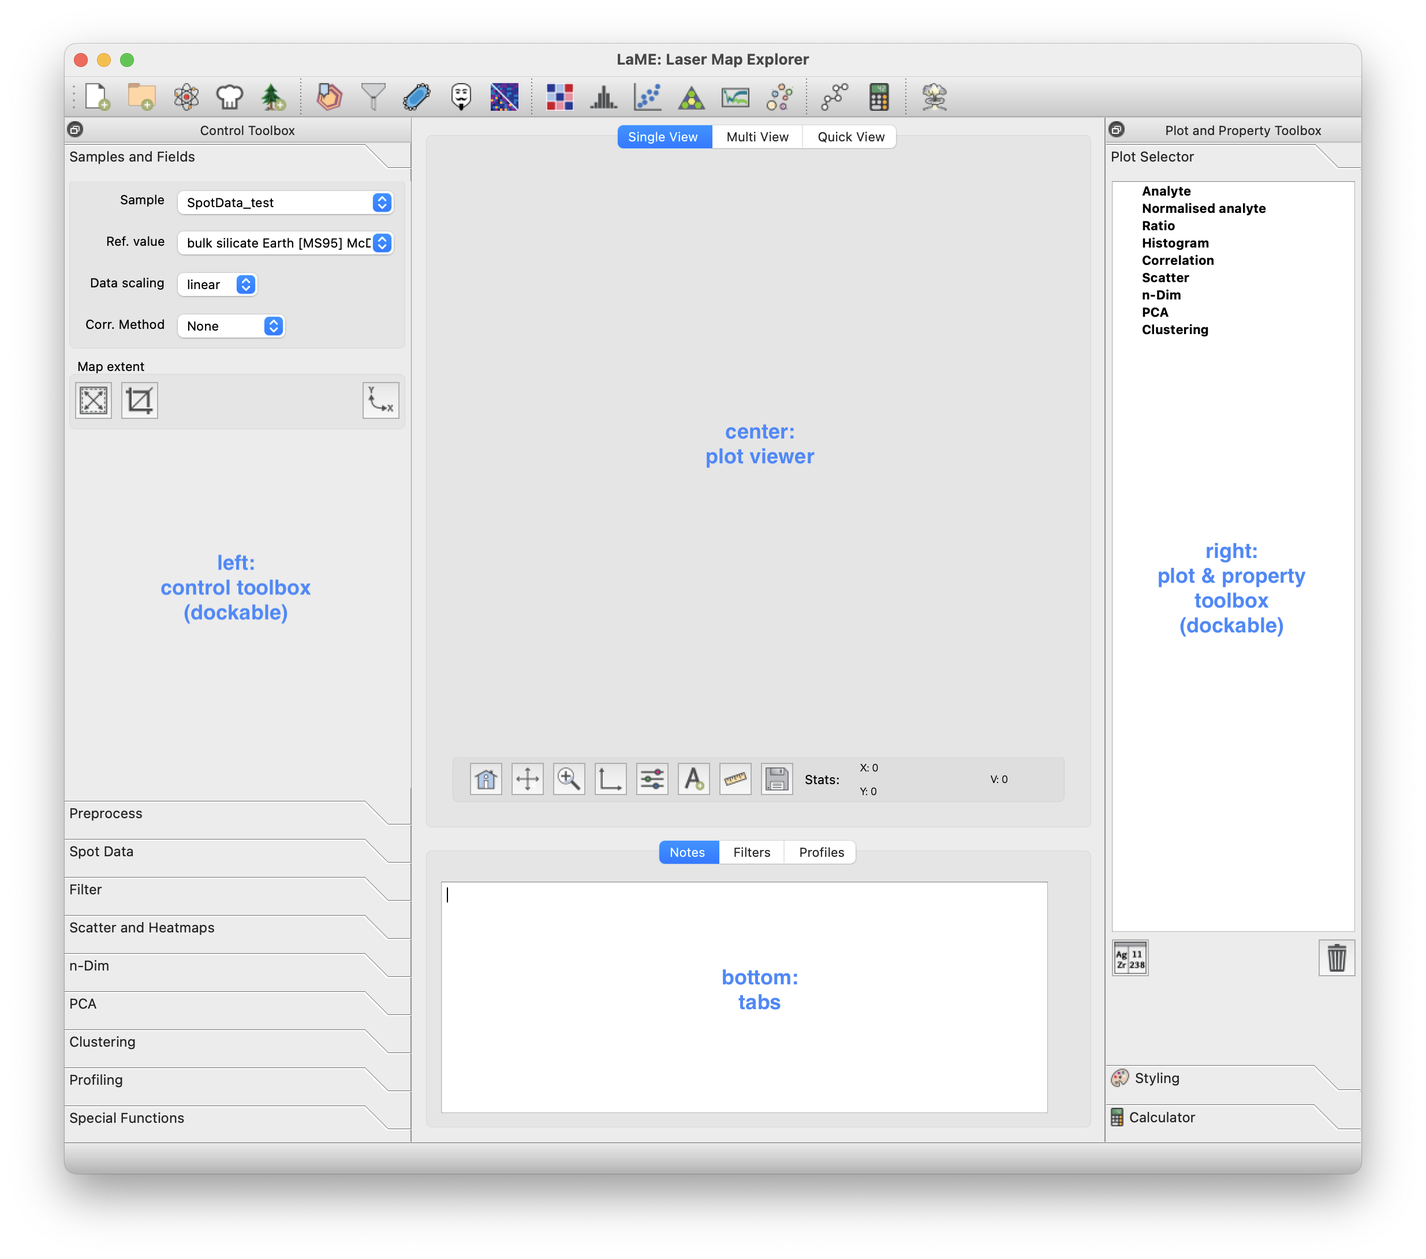
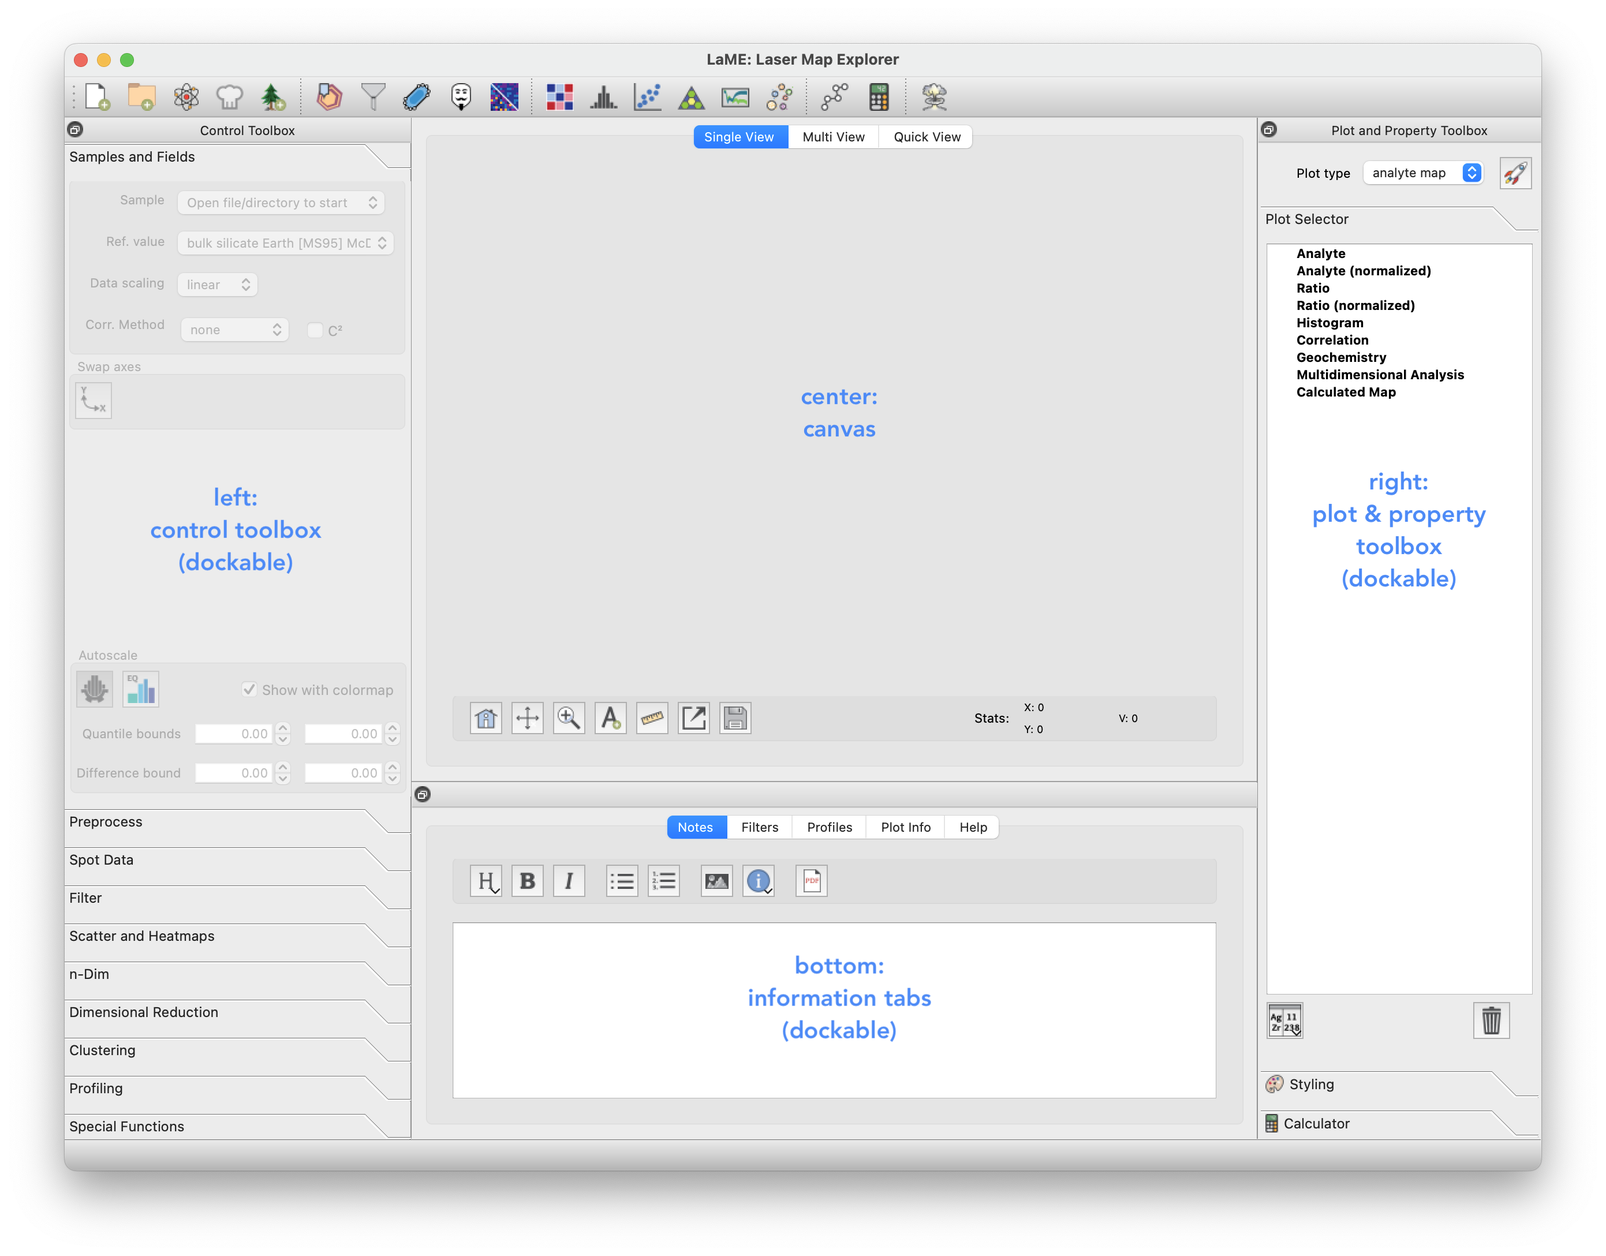
fixed issues with styles and polygons and profiles
Updated MainWindow.set_style_widgets to fix issues updating when changing toolBox pages.  Added X and Y axes to MainWindow.axis_dict and updated associated wiget functions.  Fixed bugs related to bottom_tab and canvas_tab in classes outside scope of MainWindow.

diff --git a/main.py b/main.py
@@ -224,6 +224,8 @@ class MainWindow(QtWidgets.QMainWindow, Ui_MainWindow):
             Layout for Quick View tab of ``canvasWindow``
         left_tab : dict
             Holds the indices for pages in ``toolBox``
+        map_plot_types : list
+            A list of plots that result in a map, i.e., ['analyte map', 'ternary map', 'PCA Score', 'Cluster', 'Cluster Score'].  This list is generally used as a check when setting certain styles or other plotting behavior related to maps.
         marker_dict : dict
             Dictionary of marker names used to translate ``comboBoxMarker`` to a matplotlib maker symbol, though not all matplotlib markers
             are used.
@@ -482,7 +484,7 @@ class MainWindow(QtWidgets.QMainWindow, Ui_MainWindow):
                 case 'filters':
                     self.bottom_tab.update({'filters': tid})
                 case 'profiles':
-                    self.bottom_tab.update({'profiles': tid})
+                    self.bottom_tab.update({'profile': tid})
                 case 'plot info':
                     self.bottom_tab.update({'plotinfo': tid})
                 case 'help':
@@ -504,6 +506,7 @@ class MainWindow(QtWidgets.QMainWindow, Ui_MainWindow):
         self.markerdict = {'circle':'o', 'square':'s', 'diamond':'d', 'triangle (up)':'^', 'triangle (down)':'v', 'hexagon':'h', 'pentagon':'p'}
         self.comboBoxMarker.clear()
         self.comboBoxMarker.addItems(self.markerdict.keys())
+        self.map_plot_types = ['analyte map', 'ternary map', 'PCA Score', 'Cluster', 'Cluster Score']
 
         self.plot_types = {self.left_tab['sample']: [0, 'analyte map', 'correlation'],
             self.left_tab['spot']: [0, 'analyte map', 'gradient map'],
@@ -1576,13 +1579,18 @@ class MainWindow(QtWidgets.QMainWindow, Ui_MainWindow):
         if self.sample_id == '':
             return
 
+        tab_id = self.toolBox.currentIndex()
+
         self.comboBoxPlotType.blockSignals(True)
         self.comboBoxPlotType.clear()
-        self.comboBoxPlotType.addItems(self.plot_types[self.toolBox.currentIndex()][1:])
-        self.comboBoxPlotType.setCurrentIndex(self.plot_types[self.toolBox.currentIndex()][0])
+        self.comboBoxPlotType.addItems(self.plot_types[tab_id][1:])
+        self.comboBoxPlotType.setCurrentIndex(self.plot_types[tab_id][0])
         self.comboBoxPlotType.blockSignals(False)
-        self.set_style_widgets()
 
+        plot_type = self.comboBoxPlotType.currentText()
+        self.set_style_widgets(plot_type=plot_type, style=self.styles[plot_type])
+
+        # If canvasWindow is set to SingleView, update the plot
         if self.canvasWindow.currentIndex() == self.canvas_tab['sv']:
             self.update_SV()
 
@@ -3810,13 +3818,13 @@ class MainWindow(QtWidgets.QMainWindow, Ui_MainWindow):
                 self.comboBoxLineWidth.setEnabled(False)
                 self.lineEditLengthMultiplier.setEnabled(False)
 
-
                 # color properties
                 self.comboBoxColorByField.setEnabled(True)
                 self.comboBoxColorField.setEnabled(True)
                 self.comboBoxFieldColormap.setEnabled(True)
                 self.lineEditColorLB.setEnabled(True)
                 self.lineEditColorUB.setEnabled(True)
+                self.comboBoxColorScale.setEnabled(True)
                 self.comboBoxCbarDirection.setEnabled(True)
                 self.lineEditCbarLabel.setEnabled(True)
 
@@ -4355,13 +4363,10 @@ class MainWindow(QtWidgets.QMainWindow, Ui_MainWindow):
         tab_id = self.toolBox.currentIndex()
 
         if plot_type is None:
+            plot_type = self.plot_types[tab_id][self.plot_types[tab_id][0]+1]
             self.comboBoxPlotType.blockSignals(True)
             self.comboBoxPlotType.clear()
             self.comboBoxPlotType.addItems(self.plot_types[tab_id][1:])
-            self.comboBoxPlotType.blockSignals(False)
-
-            plot_type = self.plot_types[tab_id][self.plot_types[tab_id][0]+1]
-            self.comboBoxPlotType.blockSignals(True)
             self.comboBoxPlotType.setCurrentText(plot_type)
             self.comboBoxPlotType.blockSignals(False)
         elif plot_type == '':
@@ -4371,12 +4376,45 @@ class MainWindow(QtWidgets.QMainWindow, Ui_MainWindow):
             style = self.styles[plot_type]
 
         # axes properties
-        self.lineEditXLB.setText(self.dynamic_format(style['Axes']['XLim'][0],order=3,dir=0))
-        self.lineEditXUB.setText(self.dynamic_format(style['Axes']['XLim'][1],order=3,dir=1))
+        # for map plots, check to see that 'X' and 'Y' are initialized
+        if plot_type.lower() in self.map_plot_types:
+            if ('X' not in list(self.axis_dict.keys())) or ('Y' not in list(self.axis_dict.keys())):
+                # initialize 'X' and 'Y' axes
+                # all plot types use the same map dimensions so just use Analyte for the field_type
+                self.initialize_axis_values('Analyte','X')
+                self.initialize_axis_values('Analyte','Y')
+            xmin,xmax,xscale,xlabel = self.get_axis_values('Analyte','X')
+            ymin,ymax,yscale,ylabel = self.get_axis_values('Analyte','Y')
+
+            # set style dictionary values for X and Y
+            style['Axes']['XLim'] = [xmin, xmax]
+            style['Axes']['XScale'] = xscale
+            style['Axes']['XLabel'] = 'X'
+            style['Axes']['YLim'] = [ymin, ymax]
+            style['Axes']['YScale'] = yscale
+            style['Axes']['YLabel'] = 'Y'
+            style['Axes']['AspectRatio'] = self.aspect_ratio
+
+            # do not round axes limits for maps
+            self.lineEditXLB.setText(str(style['Axes']['XLim'][0]))
+            self.lineEditXUB.setText(str(style['Axes']['XLim'][1]))
+
+            self.lineEditYLB.setText(str(style['Axes']['YLim'][0]))
+            self.lineEditYUB.setText(str(style['Axes']['YLim'][1]))
+        else:
+            # round axes limits for everything that isn't a map
+            self.lineEditXLB.setText(self.dynamic_format(style['Axes']['XLim'][0],order=3,dir=0))
+            self.lineEditXUB.setText(self.dynamic_format(style['Axes']['XLim'][1],order=3,dir=1))
+
+            self.lineEditYLB.setText(self.dynamic_format(style['Axes']['YLim'][0],order=3,dir=0))
+            self.lineEditYUB.setText(self.dynamic_format(style['Axes']['YLim'][1],order=3,dir=1))
+
+        self.comboBoxXScale.setCurrentText(style['Axes']['XScale'])
         self.lineEditXLabel.setText(style['Axes']['XLabel'])
-        self.lineEditYLB.setText(self.dynamic_format(style['Axes']['YLim'][0],order=3,dir=0))
-        self.lineEditYUB.setText(self.dynamic_format(style['Axes']['YLim'][1],order=3,dir=1))
+
+        self.comboBoxYScale.setCurrentText(style['Axes']['YScale'])
         self.lineEditYLabel.setText(style['Axes']['YLabel'])
+
         self.lineEditZLabel.setText(style['Axes']['ZLabel'])
         self.lineEditAspectRatio.setText(str(style['Axes']['AspectRatio']))
 
@@ -4407,9 +4445,19 @@ class MainWindow(QtWidgets.QMainWindow, Ui_MainWindow):
 
         # color properties
         self.toolButtonMarkerColor.setStyleSheet("background-color: %s;" % style['Colors']['Color'])
+        self.update_field_type_combobox(self.comboBoxColorByField,addNone=True,plot_type=plot_type)
         self.comboBoxColorByField.setCurrentText(style['Colors']['ColorByField'])
-        self.update_field_combobox(self.comboBoxColorByField, self.comboBoxColorField)
-        self.comboBoxColorField.setCurrentText(style['Colors']['Field'])
+
+        if style['Colors']['ColorByField'] == '':
+            self.comboBoxColorField.clear()
+        else:
+            self.update_field_combobox(self.comboBoxColorByField, self.comboBoxColorField)
+
+        if style['Colors']['Field'] in self.comboBoxColorField.allItems():
+            self.comboBoxColorField.setCurrentText(style['Colors']['Field'])
+        else:
+            style['Colors']['Field'] = self.comboBoxColorField.currentText()
+
         self.comboBoxFieldColormap.setCurrentText(style['Colors']['Colormap'])
         self.checkBoxReverseColormap.blockSignals(True)
         self.checkBoxReverseColormap.setChecked(style['Colors']['Reverse'])
@@ -4419,6 +4467,21 @@ class MainWindow(QtWidgets.QMainWindow, Ui_MainWindow):
             style['Colors']['CLabel'] = self.axis_dict[style['Colors']['Field']]['label']
         self.lineEditColorLB.setText(self.dynamic_format(style['Colors']['CLim'][0],order=3,dir=0))
         self.lineEditColorUB.setText(self.dynamic_format(style['Colors']['CLim'][1],order=3,dir=1))
+        if style['Colors']['ColorByField'] == 'Cluster':
+            # set ColorField to active cluster method
+            self.comboBoxColorField.setCurrentText(self.cluster_dict['active method'])
+
+            # set color scale to discrete
+            self.comboBoxColorScale.clear()
+            self.comboBoxColorScale.addItem('discrete')
+            self.comboBoxColorScale.setCurrentText('discrete')
+
+            self.styles[plot_type]['Colors']['CScale'] = 'discrete'
+        else:
+            # set color scale options to linear/log
+            self.comboBoxColorScale.clear()
+            self.comboBoxColorScale.addItems(['linear','log'])
+            self.comboBoxColorScale.setCurrentText(self.styles[plot_type]['Colors']['CScale'])
         self.comboBoxColorScale.setCurrentText(style['Colors']['CScale'])
         self.comboBoxCbarDirection.setCurrentText(style['Colors']['Direction'])
         self.lineEditCbarLabel.setText(style['Colors']['CLabel'])
@@ -4481,8 +4544,8 @@ class MainWindow(QtWidgets.QMainWindow, Ui_MainWindow):
     def plot_type_callback(self):
         """Updates styles when plot type is changed
 
-        Executes on change of ``MainWindow.comboBoxPlotType.currentText()``, updates the style dictionary,
-        toggles widgets and updates single view plot
+        Executes on change of ``MainWindow.comboBoxPlotType``.  Updates ``MainWindow.plot_type[0]`` to the current index of the 
+        combobox, then updates the style widgets to match the dictionary entries and updates the plot.
         """
         # set plot flag to false
         self.plot_flag = False
@@ -4531,6 +4594,9 @@ class MainWindow(QtWidgets.QMainWindow, Ui_MainWindow):
                         return f'PC{self.spinBoxPCX.value()}'
                     case 'y':
                         return f'PC{self.spinBoxPCY.value()}'
+            case 'analyte map' | 'ternary map' | 'PCA Score' | 'Cluster' | 'Cluster Score':
+                return ax.upper()
+
 
     def axis_label_edit_callback(self, ax, new_label):
         """Updates axis label in dictionaries from widget
@@ -4653,8 +4719,12 @@ class MainWindow(QtWidgets.QMainWindow, Ui_MainWindow):
         #print('set_axis_widgets')
         match ax:
             case 'x':
-                self.lineEditXLB.setText(self.dynamic_format(self.axis_dict[field]['min'],order=3,dir=0))
-                self.lineEditXUB.setText(self.dynamic_format(self.axis_dict[field]['max'],order=3,dir=1))
+                if field == 'X':
+                    self.lineEditXLB.setText(str(self.axis_dict[field]['min']))
+                    self.lineEditXUB.setText(str(self.axis_dict[field]['max']))
+                else:
+                    self.lineEditXLB.setText(self.dynamic_format(self.axis_dict[field]['min'],order=3,dir=0))
+                    self.lineEditXUB.setText(self.dynamic_format(self.axis_dict[field]['max'],order=3,dir=1))
                 self.lineEditXLabel.setText(self.axis_dict[field]['label'])
                 self.comboBoxXScale.setCurrentText(self.axis_dict[field]['scale'])
             case 'y':
@@ -4664,8 +4734,12 @@ class MainWindow(QtWidgets.QMainWindow, Ui_MainWindow):
                     self.lineEditYLabel.setText(self.comboBoxHistType.currentText())
                     self.comboBoxYScale.setCurrentText('linear')
                 else:
-                    self.lineEditYLB.setText(self.dynamic_format(self.axis_dict[field]['min'],order=3,dir=0))
-                    self.lineEditYUB.setText(self.dynamic_format(self.axis_dict[field]['max'],order=3,dir=1))
+                    if field == 'X':
+                        self.lineEditYLB.setText(str(self.axis_dict[field]['min']))
+                        self.lineEditYUB.setText(str(self.axis_dict[field]['max']))
+                    else:
+                        self.lineEditYLB.setText(self.dynamic_format(self.axis_dict[field]['min'],order=3,dir=0))
+                        self.lineEditYUB.setText(self.dynamic_format(self.axis_dict[field]['max'],order=3,dir=1))
                     self.lineEditYLabel.setText(self.axis_dict[field]['label'])
                     self.comboBoxYScale.setCurrentText(self.axis_dict[field]['scale'])
             case 'z':
@@ -4700,6 +4774,10 @@ class MainWindow(QtWidgets.QMainWindow, Ui_MainWindow):
                 self.set_color_axis_widgets()
         else:
             match self.comboBoxPlotType.currentText().lower():
+                case 'analyte map' | 'cluster' | 'cluster score' | 'pca score':
+                    field = ax.upper()
+                    self.initialize_axis_values('Analyte', field)
+                    self.set_axis_widgets(ax, field)
                 case 'histogram':
                     field = self.comboBoxHistField.currentText()
                     if ax == 'x':
@@ -4782,22 +4860,31 @@ class MainWindow(QtWidgets.QMainWindow, Ui_MainWindow):
             self.axis_dict.update({field:{'status':'auto', 'label':field, 'min':None, 'max':None}})
 
         #current_plot_df = pd.DataFrame()
-        df = self.get_map_data(self.sample_id, field, field_type)
-        array = df['array'][self.data[self.sample_id]['mask']].values if not df.empty else []
+        if field not in ['X','Y']:
+            df = self.get_map_data(self.sample_id, field, field_type)
+            array = df['array'][self.data[self.sample_id]['mask']].values if not df.empty else []
+        else:
+            # field 'X' and 'Y' require separate extraction
+            array = self.data[self.sample_id]['raw_data'].loc[:,field].values
+
         match field_type:
             case 'Analyte' | 'Analyte (normalized)':
-                #current_plot_df = self.data[self.sample_id]['processed_data'].loc[:,field].values
-                symbol, mass = self.parse_field(field)
-                if field_type == 'Analyte':
-                    self.axis_dict[field]['label'] = f"$^{{{mass}}}${symbol} ({self.preferences['Units']['Concentration']})"
+                if field in ['X','Y']:
+                    scale = 'linear'
                 else:
-                    self.axis_dict[field]['label'] = f"$^{{{mass}}}${symbol}$_N$ ({self.preferences['Units']['Concentration']})"
+                    #current_plot_df = self.data[self.sample_id]['processed_data'].loc[:,field].values
+                    symbol, mass = self.parse_field(field)
+                    if field_type == 'Analyte':
+                        self.axis_dict[field]['label'] = f"$^{{{mass}}}${symbol} ({self.preferences['Units']['Concentration']})"
+                    else:
+                        self.axis_dict[field]['label'] = f"$^{{{mass}}}${symbol}$_N$ ({self.preferences['Units']['Concentration']})"
 
-                #amin = self.data[self.sample_id]['analyte_info'].loc[(self.data[self.sample_id]['analyte_info']['analytes']==field),'v_min'].values[0]
-                #amax = self.data[self.sample_id]['analyte_info'].loc[(self.data[self.sample_id]['analyte_info']['analytes']==field),'v_max'].values[0]
+                    #amin = self.data[self.sample_id]['analyte_info'].loc[(self.data[self.sample_id]['analyte_info']['analytes']==field),'v_min'].values[0]
+                    #amax = self.data[self.sample_id]['analyte_info'].loc[(self.data[self.sample_id]['analyte_info']['analytes']==field),'v_max'].values[0]
+                    scale = self.data[self.sample_id]['analyte_info'].loc[(self.data[self.sample_id]['analyte_info']['analytes']==field),'norm'].values[0]
+
                 amin = array.min()
                 amax = array.max()
-                scale = self.data[self.sample_id]['analyte_info'].loc[(self.data[self.sample_id]['analyte_info']['analytes']==field),'norm'].values[0]
             case 'Ratio' | 'Ratio (normalized)':
                 field_1 = field.split(' / ')[0]
                 field_2 = field.split(' / ')[1]
@@ -4820,8 +4907,10 @@ class MainWindow(QtWidgets.QMainWindow, Ui_MainWindow):
                 amin = array.min()
                 amax = array.max()
 
-        amin = self.oround(amin, order=2, dir=0)
-        amax = self.oround(amax, order=2, dir=1)
+        # do not round 'X' and 'Y' so full extent of map is viewable
+        if field not in ['X','Y']:
+            amin = self.oround(amin, order=2, dir=0)
+            amax = self.oround(amax, order=2, dir=1)
 
         d = {'status':'auto', 'min':amin, 'max':amax, 'scale':scale}
 
@@ -5043,39 +5132,24 @@ class MainWindow(QtWidgets.QMainWindow, Ui_MainWindow):
         Updates style associated with ``MainWindow.comboBoxColorByField``.  Also updates
         ``MainWindow.comboBoxColorField`` and ``MainWindow.comboBoxColorScale``."""
         #print('color_by_field_callback')
-        self.update_field_combobox(self.comboBoxColorByField, self.comboBoxColorField)
-
+        #self.update_field_combobox(self.comboBoxColorByField, self.comboBoxColorField)
         plot_type = self.comboBoxPlotType.currentText()
-        if self.styles[plot_type]['Colors']['ColorByField'] == self.comboBoxColorByField.currentText():
+        if plot_type == '':
             return
 
-        self.styles[plot_type]['Colors']['ColorByField'] = self.comboBoxColorByField.currentText()
+        style = self.styles[plot_type]
+        if style['Colors']['ColorByField'] == self.comboBoxColorByField.currentText():
+            return
 
-        if self.comboBoxColorByField.currentText() == 'Clusters':
-            # set ColorField to active cluster method
-            self.comboBoxColorField.setCurrentText(self.cluster_dict['active method'])
-
-            # set color scale to discrete
-            self.comboBoxColorScale.clear()
-            self.comboBoxColorScale.addItem('discrete')
-            self.comboBoxColorScale.setCurrentText('discrete')
-
-            self.styles[plot_type]['Colors']['CScale'] = 'discrete'
-        else:
-            # set color scale options to linear/log
-            self.comboBoxColorScale.clear()
-            self.comboBoxColorScale.addItems(['linear','log'])
-            self.comboBoxColorScale.setCurrentText(self.styles[plot_type]['Colors']['CScale'])
+        style['Colors']['ColorByField'] = self.comboBoxColorByField.currentText()
+        if self.comboBoxColorByField.currentText() != '':
+            self.set_style_widgets(plot_type)
 
         if self.comboBoxPlotType.isEnabled() == False | self.comboBoxColorByField.isEnabled() == False:
             return
 
-        if self.comboBoxColorByField.currentText() != 'None':
-            self.update_field_combobox(self.comboBoxColorByField, self.comboBoxColorField)
-            self.set_style_widgets(plot_type)
-
         # only run update current plot if color field is selected or the color by field is clusters
-        if self.comboBoxColorByField.currentText() != 'None' or self.comboBoxColorField.currentText() != '' or self.comboBoxColorByField.currentText() in ['Clusters']:
+        if self.comboBoxColorByField.currentText() != 'None' or self.comboBoxColorField.currentText() != '' or self.comboBoxColorByField.currentText() in ['Cluster']:
             self.update_SV()
 
     def color_field_callback(self):
@@ -8504,14 +8578,14 @@ class MainWindow(QtWidgets.QMainWindow, Ui_MainWindow):
 
         Set names are consistent with QComboBox.
 
-        Parameter
-        ---------
+        Parameters
+        ----------
         set_name : str, optional
             name of set list, options include ``Analyte``, ``Analyte (normalized)``, ``Ratio``, ``Calcualated Field``,
             ``PCA Score``, ``Cluster``, ``Cluster Score``, ``Special``, Defaults to ``Analyte``
 
-        Return
-        ------
+        Returns
+        -------
         list
             Set_fields, a list of fields within the input set
         """
@@ -11503,7 +11577,7 @@ class Profiling:
                     self.profiles[self.main_window.sample_id][k,v][self.point_index] = (x,y, circ_val,scatter, interpolate)
 
 
-                if self.main_window.canvasWindow.currentIndex() == self.canvas_tab['mv']:
+                if self.main_window.canvasWindow.currentIndex() == self.main_window.canvas_tab['mv']:
                     # Add the scatter item to all other plots and save points in self.profiles[self.main_window.sample_id]
                     for (k,v), (_, p, array) in self.main_window.lasermaps.items():
                         circ_val = []
@@ -11538,7 +11612,7 @@ class Profiling:
 
         elif event.button() == QtCore.Qt.LeftButton:  #plot profile
             #switch to profile tab
-            self.main_window.tabWidget.setCurrentIndex(self.bottom_tab['profile'])
+            self.main_window.tabWidget.setCurrentIndex(self.main_window.bottom_tab['profile'])
 
             # Create a scatter plot item at the clicked position
             scatter = ScatterPlotItem([x], [y], symbol='+', size=10)
@@ -11561,7 +11635,7 @@ class Profiling:
                 self.profiles[self.main_window.sample_id][(k,v)] = [(x,y, circ_val,scatter, interpolate)]
 
 
-            if self.main_window.canvasWindow.currentIndex() == self.canvas_tab['mv']:
+            if self.main_window.canvasWindow.currentIndex() == self.main_window.canvas_tab['mv']:
                 # Add the scatter item to all other plots and save points in self.profiles[self.main_window.sample_id]
                 for (k,v), (_, p,  array) in self.main_window.lasermaps.items():
                     circ_val = []
@@ -11733,7 +11807,7 @@ class Profiling:
         style = self.main_window.styles['profile']
 
         if len(list(profiles.values())[0])>0: #if self.profiles[self.main_window.sample_id] has values
-            self.main_window.tabWidget.setCurrentIndex(self.bottom_tab['profile']) #show profile plot tab
+            self.main_window.tabWidget.setCurrentIndex(self.main_window.bottom_tab['profile']) #show profile plot tab
             sort_axis=self.main_window.comboBoxProfileSort.currentText()
             range_threshold=int(self.main_window.lineEditYThresh.text())
             # Clear existing plot
